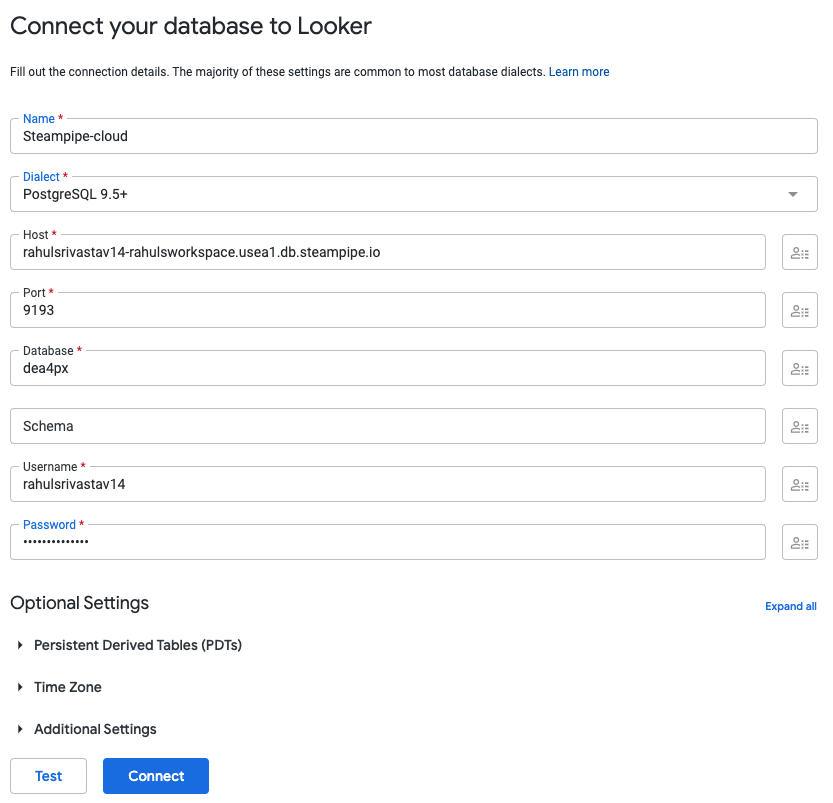
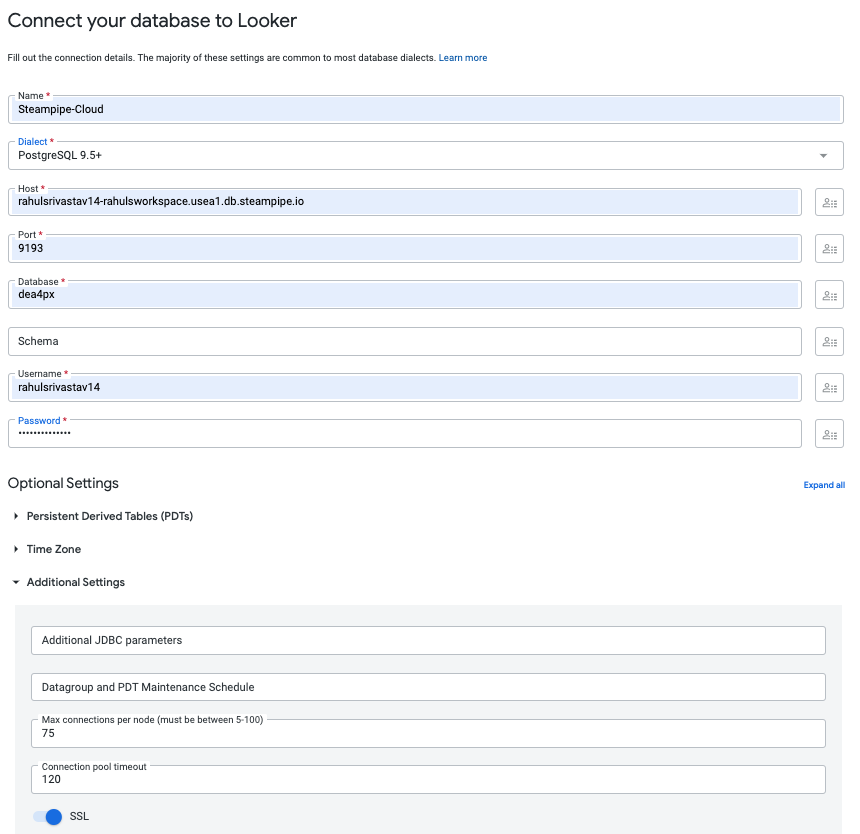
Update Review comments

diff --git a/docs/cloud/integrations/looker.md b/docs/cloud/integrations/looker.md
@@ -3,7 +3,7 @@ title: Connect to Steampipe Cloud from Looker
 sidebar_label: Looker
 ---
 
-##  Connect to Steampipe Cloud from Looker
+## Connect to Steampipe Cloud from Looker
 
 [Looker](https://cloud.google.com/looker) is an enterprise platform for BI, data applications, and embedded analytics that helps you explore and share insights in real time. It connects to many databases, including Postgres, and enables users to explore, query, and visualize data.
 
@@ -15,7 +15,7 @@ The [Connect](/docs/cloud/integrations/overview) tab for your workspace provides
 <img src="/images/docs/cloud/steampipe-cloud-connect-details.jpg" />
 </div>
 
-##  Connect to Steampipe CLI from Looker
+## Connect to Steampipe CLI from Looker
 
 You can also connect Looker to [Steampipe CLI](https://steampipe.io/downloads). To do that, run `steampipe service start --show-password` and use the displayed connection details.
 
@@ -36,7 +36,7 @@ Database:
 
 Looker is accessible through the GCP console. Here we will create a Steampipe Cloud connection from Looker.
 
-To create a new connection, click on `Database` then `Connections` from the admin page. Then click `Add Connection` and select `PostgreSQL 9.5+` from the `Dialect` dropdown list, enter the Steampipe Cloud connection details. Set the SSL Mode to on form advanced settings and click `Test` to `Verify` then click `Save`.
+To create a new connection, click on `Database` then `Connections` from the admin page. Then click `Add Connection`, select `PostgreSQL 9.5+` from the `Dialect` dropdown list, and enter the Steampipe Cloud connection details. In `Additional Settings`, set the SSL Mode to `On`. Click `Test` to `Verify`, then click `Save`.
 
 <div style={{"marginTop":"1em", "marginBottom":"1em", "width":"90%"}}>
 <img src="/images/docs/cloud/looker-connection-success.png" />
@@ -56,7 +56,7 @@ Here we use the GCP schema and query the `gcp_compute_region` table. Looker disp
 
 ## Create a report dashboard to analyze resources
 
-We'll focus here on creating a dashboard to monitor and analyze GCP Storage resources. To begin, create a new project and select `Create a New Model`, then select the steampipe cloud database and schema from the `Allowed Connections` and save. The new model can be accessed through the `Explore` tab.
+We'll focus here on creating a dashboard to monitor and analyze GCP Storage resources. To begin, create a new project and select `Create a New Model`, then select the Steampipe Cloud database and schema from the `Allowed Connections` and save. The new model can be accessed through the `Explore` tab.
 
 Select the `Gcp Compute Disk Metric Read Ops Hourly` table, add the values `Name` and `Average` from `Dimensions` and click `Run`. Looker then previews the data in the table form. Click on the `Visualization` tab and select the `Column` icon to visualize the hourly usage of disks used by instance-1 and instance-2. This can be saved as a new dashboard or added to an existing dashboard from the settings menu. Here we save it as a new dashboard named `GCP Storage Analysis`.
 
